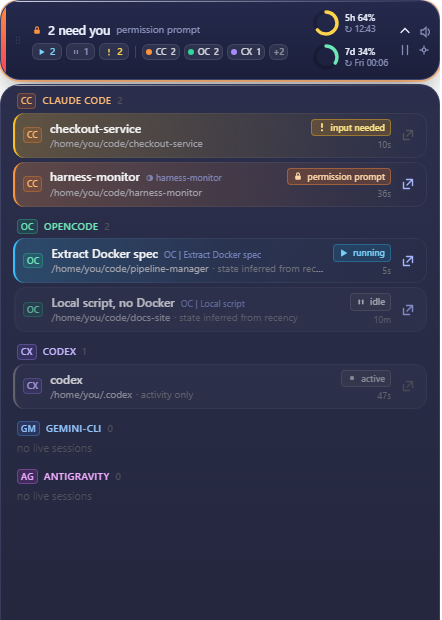
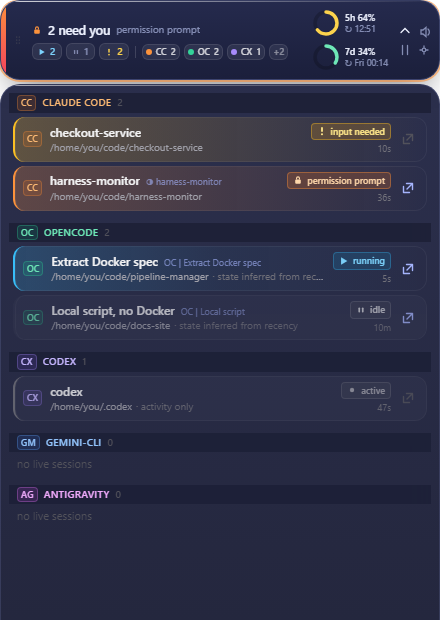
fix: make the expanded session list scrollable
With enough sessions the list was clipped, not scrollable: the panel had
overflow-hidden and the list inside it had no bounded height, so
overflow-y-auto never engaged. The panel is now a flex column with min-h-0 and
the list takes the remaining space.

Two things that only matter once the list scrolls, so they land here too:
harness headers stick to the top of the scroll container, and anything waiting
on the user sorts first - between harnesses and within each one - so a dozen
running sessions cannot push a blocked one out of sight. Also a thin
theme-aware scrollbar, since the platform default is a wide grey slab on a
440px panel.

Adds ?many=N to the preview harness, which repeats the fixture so the scroll
path can be reviewed without waiting for a dozen real sessions.

diff --git a/src/components/SessionList.tsx b/src/components/SessionList.tsx
@@ -46,11 +46,17 @@ export function SessionList() {
     byHarness.set(session.key.harness, [...(byHarness.get(session.key.harness) ?? []), session]);
   }
 
+  // With a dozen sessions the list scrolls, so what needs you has to be near
+  // the top rather than wherever its harness happens to sort.
+  const groups = [...byHarness.entries()].sort(
+    ([, a], [, b]) => rank(b) - rank(a) || b.length - a.length,
+  );
+
   return (
-    <div className="flex flex-col gap-3 overflow-y-auto px-3 pb-3">
-      {[...byHarness.entries()].map(([harness, sessions]) => (
+    <div className="hm-scroll flex min-h-0 flex-1 flex-col gap-3 overflow-y-auto px-3 pb-3">
+      {groups.map(([harness, sessions]) => (
         <section key={harness} className="flex flex-col gap-1">
-          <h2 className="flex items-center gap-1.5 px-1 text-[10px] font-medium uppercase tracking-wide">
+          <h2 className="sticky top-0 z-10 -mx-1 flex items-center gap-1.5 bg-[#EEF1FE]/95 px-2 py-0.5 text-[10px] font-medium uppercase tracking-wide backdrop-blur dark:bg-[#1D2138]/95">
             <span
               className={`rounded px-1 py-px text-[9px] ring-1 ring-inset ${HARNESS_CHIP[harness]}`}
             >
@@ -63,7 +69,12 @@ export function SessionList() {
             <p className="px-1 text-[11px] text-zinc-400 dark:text-zinc-600">no live sessions</p>
           ) : (
             sessions
-              .sort((a, b) => b.state_changed_at - a.state_changed_at)
+              .sort(
+                (a, b) =>
+                  Number(b.state.startsWith("awaiting")) -
+                    Number(a.state.startsWith("awaiting")) ||
+                  b.state_changed_at - a.state_changed_at,
+              )
               .map((session) => <Row key={rowKey(session)} session={session} now={now} />)
           )}
         </section>
@@ -76,6 +87,17 @@ export function SessionList() {
       )}
     </div>
   );
+}
+
+/** Groups with sessions waiting on the user sort first, then busier groups. */
+function rank(sessions: AgentSession[]): number {
+  let score = 0;
+  for (const s of sessions) {
+    if (s.state === "awaiting-permission") score += 100;
+    else if (s.state === "awaiting-input") score += 90;
+    else if (s.state === "running" || s.state === "active-unknown") score += 10;
+  }
+  return score;
 }
 
 /** Identity is the process: sessionId repeats across pids when resumed. */

diff --git a/src/index.css b/src/index.css
@@ -57,3 +57,39 @@ body {
     animation: none;
   }
 }
+
+/* A thin, theme-aware scrollbar: the platform default is a wide grey slab
+   that looks pasted onto a 440px floating panel. */
+.hm-scroll {
+  scrollbar-width: thin;
+  scrollbar-color: rgba(79, 70, 229, 0.35) transparent;
+}
+
+.hm-scroll::-webkit-scrollbar {
+  width: 7px;
+}
+
+.hm-scroll::-webkit-scrollbar-track {
+  background: transparent;
+}
+
+.hm-scroll::-webkit-scrollbar-thumb {
+  background: rgba(79, 70, 229, 0.32);
+  border-radius: 99px;
+}
+
+.hm-scroll::-webkit-scrollbar-thumb:hover {
+  background: rgba(79, 70, 229, 0.5);
+}
+
+.dark .hm-scroll {
+  scrollbar-color: rgba(165, 180, 252, 0.32) transparent;
+}
+
+.dark .hm-scroll::-webkit-scrollbar-thumb {
+  background: rgba(165, 180, 252, 0.28);
+}
+
+.dark .hm-scroll::-webkit-scrollbar-thumb:hover {
+  background: rgba(165, 180, 252, 0.45);
+}

diff --git a/src/App.tsx b/src/App.tsx
@@ -37,7 +37,10 @@ export default function App() {
       </div>
       {expanded && (
         <div
-          className={`relative mt-1 flex-1 overflow-hidden rounded-[20px] border pt-2 backdrop-blur-xl ${PANEL}`}
+          // min-h-0 plus a flex column is what makes the list inside able to
+          // scroll: without a bounded height, overflow-y-auto never engages
+          // and long lists were simply clipped.
+          className={`relative mt-1 flex min-h-0 flex-1 flex-col overflow-hidden rounded-[20px] border pt-2 backdrop-blur-xl ${PANEL}`}
         >
           {/* Same hairline gloss as the pill, so panel and pill read as one object. */}
           <div className="pointer-events-none absolute inset-x-0 top-0 h-px bg-gradient-to-r from-white/60 to-transparent dark:from-white/12" />

diff --git a/src/store/useMonitor.ts b/src/store/useMonitor.ts
@@ -90,6 +90,16 @@ export const useMonitor = create<MonitorState>((set, get) => ({
       } else if (only === "none") {
         sessions = [];
       }
+      const many = Number(params.get("many") || 0);
+      if (many > 1) {
+        sessions = Array.from({ length: many }, (_, copy) =>
+          sessions.map((s) => ({
+            ...s,
+            key: { ...s.key, pid: s.key.pid + copy * 1000 },
+            name: copy === 0 ? s.name : `${s.name} ${copy + 1}`,
+          })),
+        ).flat();
+      }
       set({
         snapshot: { ...MOCK_SNAPSHOT, sessions },
         receivedAt: Date.now(),

diff --git a/README.md b/README.md
@@ -131,6 +131,11 @@ AG fuchsia (antigravity) - kept outside the state palette so the two never read
 as the same signal. A harness that is installed but quiet shows dimmed with a
 `0`; one that is not installed is absent entirely.
 
+When there are more sessions than fit, the list scrolls: harness headers stick
+to the top so you always know which group you are reading, and anything waiting
+on you sorts first - both between harnesses and inside each one - so a dozen
+running sessions cannot push a blocked one below the fold.
+
 **Two orientations.** The horizontal pill (440x80) suits the bottom of a
 screen; the vertical strip (118x300) is for parking down a side, and stacks the
 same information - rail across the top, the headline, the quota ring labelled
